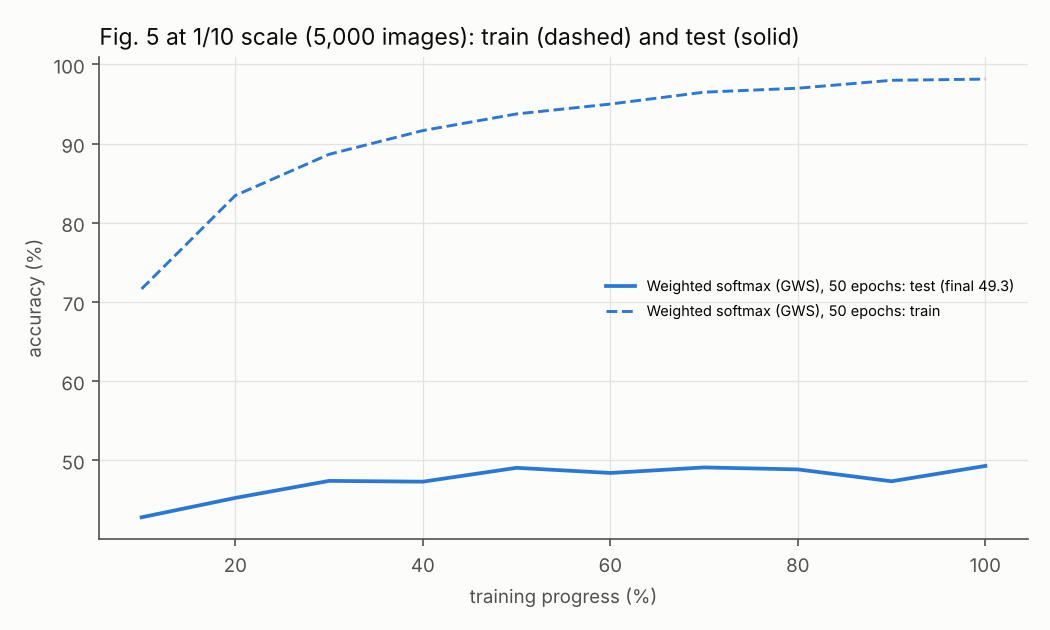
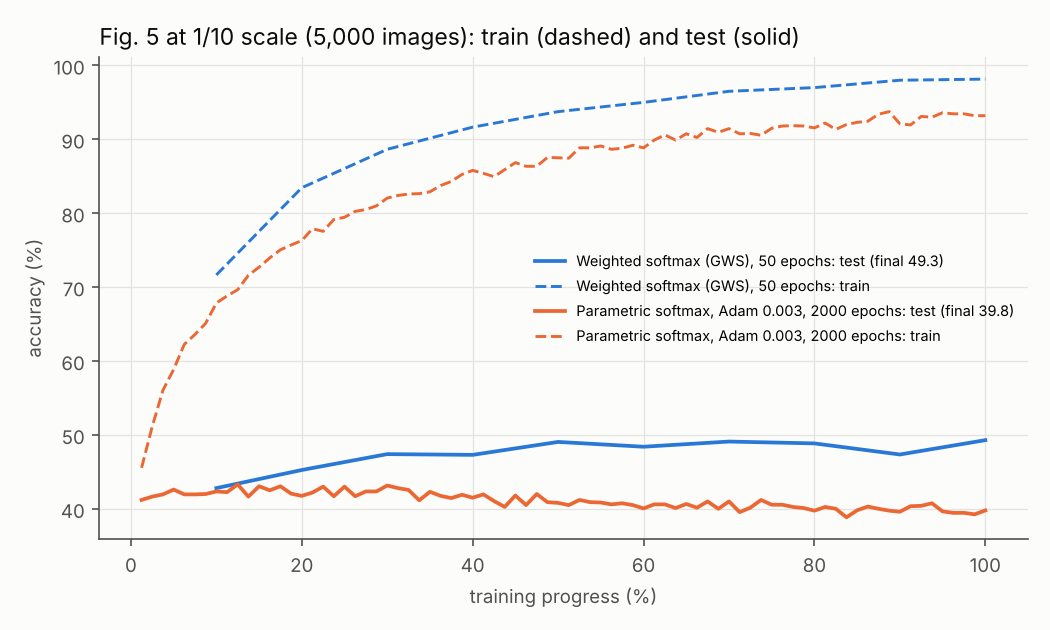
Report and figure: claim 15 at 1/10 scale with the paper's ratios
Claude-Session: https://claude.ai/code/session_01RLNGfWX7myMbpBLDNmpMEp

diff --git a/docs/REPRODUCTION.md b/docs/REPRODUCTION.md
@@ -28,7 +28,7 @@ Budget: 12 GPU-hours on Colab (L4 and A100-40GB) plus a 4-core CPU; 11.87 hours 
 | 12 | Training loss falls much faster for GWS and RBF (Fig. 2 middle) | Reproduced for L = 2 (online loss 0.75 after 10 epochs; Muon 1.12, Adam 1.31) and in one pass (1.20 against Muon 1.26) | §7.4, figure |
 | 13 | Depth helps up to 2 hidden layers; temperature effect is non-monotonic (Fig. 4 left) | Reproduced. Depth: one pass 53.5 / 58.5 / 59.4, 10 epochs 58.6 / 63.8 / 65.1 for L = 0 / 1 / 2. Temperature (L = 0, 10 epochs): 53.5 / 58.6 / 51.3 for T = 3 / 10 / 30 | §5.1, §7.4 |
 | 14 | Linearizing exp after training causes a large drop (Fig. 4 right) | Reproduced: 61.9 → 15.9 (50 epochs, L = 0); 21-24% at every depth after 10 epochs | §7.2, §7.4 |
-| 15 | The parametric softmax overfits with a widening gap; GWS does not (Fig. 5) | Partly. Reproduced: GWS reaches much higher test accuracy (61.9 vs 49.1 at full scale) and the parametric model fits slowly; learned weights make it diverge. Not reproduced within the budget: the parametric model's overfitting needs ~2,000 epochs (at 50 it is still underfitting); and GWS has the larger train-test gap at every epoch (20 vs 3 points) | §7.7 |
+| 15 | The parametric softmax overfits with a widening gap; GWS does not (Fig. 5) | Reproduced at 1/10 of the data with the paper's ratios (keys = GWS database size, 2,000 vs 50 epochs): the parametric model's test accuracy peaks at 43.3% (12.5% of training) and falls to 39.8% while its train accuracy rises to 93%; GWS ends at its best, 49.3%. Full scale, 50 epochs: GWS 61.9 vs 49.1. As in the paper's own figure, GWS also has a large final train-test gap; the claim holds in the sense that its test accuracy does not fall. Learned weights make the parametric model diverge (as the paper reports) | §7.7 |
 | 16 | ViT with GWS FFNs beats the parametric ViT after one epoch: 54.4 vs 48.4 (Sec. 5) | Reproduced: 55.24 at the first setting and 58.41 at the best of four (all four 52.5-58.4) vs 49.62 for the best standard ViT; needed an exact two-call FlashAttention form because PyTorch's fused attention backward slows 50 times at 2^21 keys | §5.3 |
 | 17 | The hybrid layer keeps accuracy with sublinear growth (Fig. 6) | Reproduced: capacities within 4 points of the paper at every τ; accuracy within 1.2 points for τ ≥ 50 with the notebook setting (two seeds at τ = 50: 56.2, 56.5). At τ = 35 the notebook setting fails (49.5, 44.3), but the paper's per-τ tuning grid gives 58.25% at 89.2% of the rows (paper ~58.6% at ~88%) | §5.2 |
 | 18 | DeltaNet decay improves a 10-layer MLP over 2,000 epochs: 74% vs 67% (App. E.3.1) | Reproduced: λ = 1e-5 reaches 74.0% (final 73.7%) against 68.3% for plain SGD; all five decay rates of the paper's figure match it within about 1-2 points in test and train accuracy | §7.8 |
@@ -440,7 +440,20 @@ Findings:
 | Parametric softmax: test / train acc (%) | 37.2 / 37.1 | 41.5 / 41.1 | 44.4 / 45.8 | 46.1 / 48.9 | 46.8 / 51.3 | **49.1 / 52.3** |
 | GWS, L = 0 (section 7.2): test / train acc (%) | 56.1 / 65.2 | 58.5 / 72.3 | 60.2 / 76.6 | 60.3 / 80.1 | 61.4 / 82.1 | **61.9 / 82.3** |
 
-  At 50 epochs the parametric model is still underfitting (train 52%) and its test accuracy is still rising; the gap is 3 points. The paper's widening gap appears after much longer training (2,000 epochs, 40 times this run, about 22 A100-hours at this table size), which was not attempted. GWS is 12.8 points ahead on test accuracy and fits much faster, as claimed, but its own gap (20 points) is larger at every epoch.
+  At 50 epochs the parametric model is still underfitting (train 52%) and its test accuracy is still rising; the gap is 3 points. The paper's widening gap appears after much longer training (2,000 epochs, 40 times this run, about 22 A100-hours at this table size). GWS is 12.8 points ahead on test accuracy and fits much faster, as claimed; its own gap (20 points) is larger, as is the gap in the paper's own figure (about 26 points).
+
+**Fig. 5 with the paper's ratios at 1/10 of the data (third round, `overfit_fig5_scaled.json`).** The paper's full-scale parametric model (2.56M trained keys of width 3,072) needs about 126 GB for parameters, gradients and Adam state. This version keeps the paper's two ratios on the first 5,000 training images: the parametric softmax has as many trained keys as the GWS database holds after 50 epochs (249,664, about 50 per image, as in the paper), and it trains for 2,000 epochs against 50 for GWS. Plain softmax (fixed equal weights), T = 1, Adam 3e-3 (the low end of the paper's rate grid), batch 64, augmentation. Train accuracy on 2,000 non-augmented training images, test accuracy on 2,000 test images (final row: all 10,000). Colab G4, 97 minutes.
+
+| Epoch (parametric) | 25 | 50 | 100 | 250 | 500 | 1,000 | 1,500 | 2,000 |
+|---|---|---|---|---|---|---|---|---|
+| Parametric softmax: test / train acc (%) | 41.2 / 45.6 | 41.6 / 51.1 | 42.6 / 58.9 | **43.3** / 69.7 | 43.0 / 79.5 | 40.8 / 87.5 | 40.6 / 91.5 | 39.8 / 93.2 |
+| Parametric softmax: test loss | 1.71 | **1.67** | 1.69 | 1.86 | 2.22 | 3.02 | 3.75 | 4.49 |
+
+| Epoch (GWS) | 5 | 10 | 20 | 30 | 40 | 50 |
+|---|---|---|---|---|---|---|
+| GWS: test / train acc (%) | 42.8 / 71.7 | 45.2 / 83.5 | 47.3 / 91.6 | 48.4 / 95.0 | 48.9 / 97.0 | **49.3** / 98.2 |
+
+  At equal training progress (x axis of the paper's figure) the parametric model's test accuracy peaks at 12.5% of training (epoch 250, 43.3%) and then falls to 39.8%, while its train accuracy keeps rising to 93% and its test loss rises 2.7 times from its minimum. GWS ends at its best test accuracy (49.3%), 6 points above the parametric model's peak and 9.5 points above its end. This is the shape of the paper's Fig. 5 (parametric: peak ~55.5%, end ~49%; GWS: rising to ~63%), at lower absolute accuracy because of the 10 times smaller training set. The GWS test loss is lowest at epoch 25 (1.579) and rises slightly to 1.629 at epoch 50, so GWS is not entirely free of overfitting in the loss.
 
 ### 7.8 SGD with DeltaNet-like decay, 10-block MLP, 2,000 epochs (paper App. E.3.1, claim 18)
 
